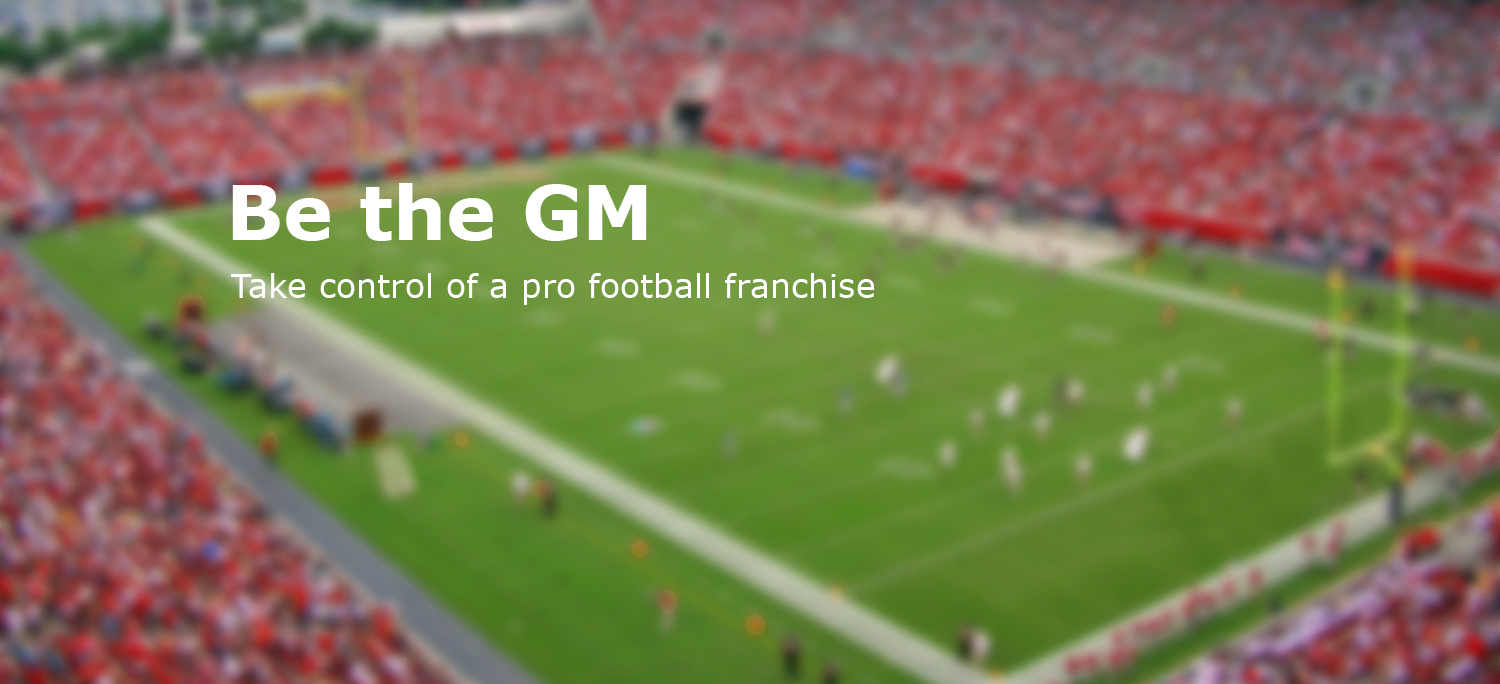
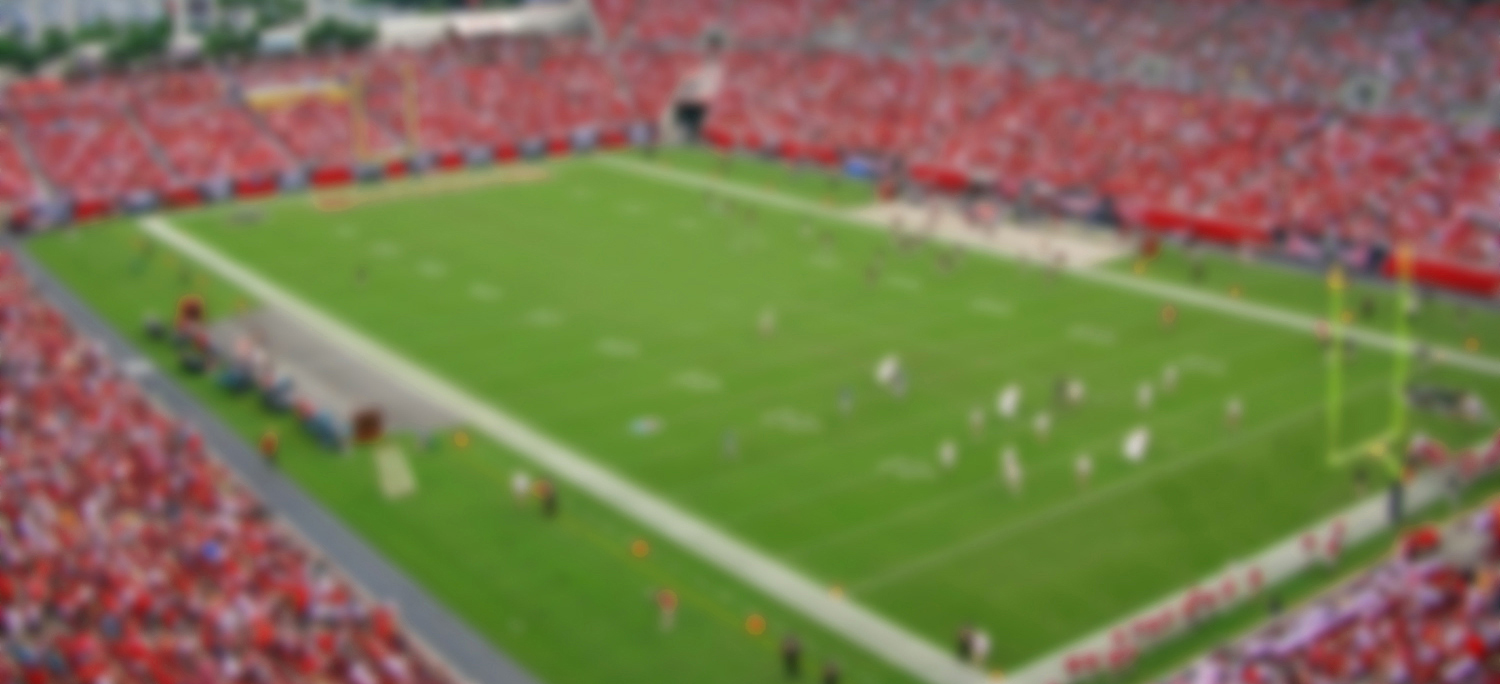
Re-added jumbotron, now integrated within carousel

Changed region(s): [[0.1533, 0.2456, 0.4293, 0.3684], [0.1533, 0.3991, 0.5827, 0.4605]]

diff --git a/index.html b/index.html
@@ -65,14 +65,15 @@
 			  <!-- Wrapper for slides -->
 			  <div class="carousel-inner">
 				<div class="item active">
-				  <img src="css/background.jpg">
-				  <div class="carousel-caption">
-					<h3>Realistic Simulation</h3>
-					<p>Lorem ipsum dolor sit amet, consectetur adipiscing elit.</p>
-				  </div>
+				   <div class="jumbotron">
+            <div class="container">
+              <h1>Be the GM</h1>
+              <p>Start your professional football franchise</p>
+            </div>
+            </div>
 				</div>
 				<div class="item">
-				  <img src="css/background2.jpg">
+				  <img src="css/background.jpg">
 				  <div class="carousel-caption">
 					<h3>Tactics and Strategy</h3>
 					<p>Nunc luctus dignissim interdum. Quisque mattis congue
@@ -80,7 +81,7 @@
 				  </div>
 				</div>
 				<div class="item">
-				  <img src="css/background2.jpg">
+				  <img src="css/background.jpg">
 				  <div class="carousel-caption">
 					<h3>Build a Dynasty</h3>
 					<p>Quisque mattis congue metus eu volutpat. Sed sed arcu orci. Vivamus non turpis metus.</p>

diff --git a/css/main.css b/css/main.css
@@ -1,6 +1,8 @@
 .jumbotron {
 	background-image:url('./background.jpg');
-	height: 735px;
+	height: 650px;
+	margin-bottom:0px;
+	padding:0px;
 }
 
 .jumbotron h1{
@@ -11,7 +13,6 @@
 
 .jumbotron p{
 	color:#FFF;
-	margin-bottom:75px;
 }
 .jumbotron .learn-more p{
 	font-size: 16px;
@@ -67,16 +68,17 @@ body {
 	font-family:"Open Sans", sans-serif;
 	background-color:#EEE;
 }
+@media not handheld and (orientation:portrait) {
+	.carousel-caption h3 {
+		font-size:50px;
+	}
 
-.carousel-caption h3 {
-	font-size:50px;
+	.carousel-caption p {
+		font-size:18px;
+	}
 }
 
-.carousel-caption p {
-	font-size:18px;
-}
-
-@media handheld {
+@media handheld and (orientation:portrait) {
 	.carousel-caption h3 {
 	visibility:none;
 	}
